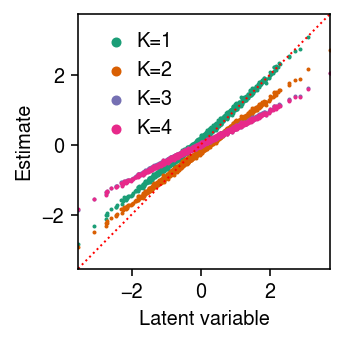
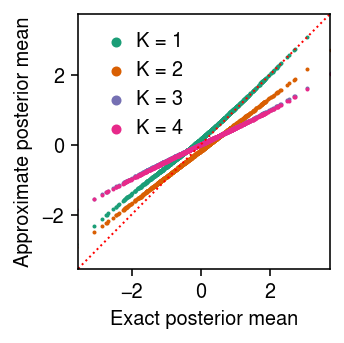
Compare exact and approximate posterior in sanity check

diff --git a/docs/flows.html b/docs/flows.html
@@ -1,7 +1,7 @@
 <!DOCTYPE html>
 <html lang="en">
 <head>
-<!-- 2021-02-03 Wed 12:19 -->
+<!-- 2021-02-03 Wed 12:43 -->
 <meta charset="utf-8">
 <meta name="viewport" content="width=device-width, initial-scale=1">
 <title>Normalizing flows for EBPM</title>
@@ -1088,8 +1088,7 @@ fig.tight_layout()
 </div>
 
 <p>
-Plot the approximate posterior mean against the true values of the latent
-variables.
+Plot the approximate posterior mean against the true posterior mean.
 </p>
 
 <div class="org-src-container">
@@ -1101,14 +1100,14 @@ plt.gcf().set_size_inches(2.5, 2.5)
   <span class="org-keyword">with</span> torch.no_grad():
     <span class="org-variable-name">samples</span> = np.stack([m.qz.forward(torch.tensor(q0.rvs(), dtype=torch.<span class="org-builtin">float</span>))[0].numpy() <span class="org-keyword">for</span> _ <span class="org-keyword">in</span> <span class="org-builtin">range</span>(100)]).squeeze()
     <span class="org-variable-name">muhat</span> = samples.mean(axis=0)
-  plt.scatter(mu, muhat, s=1, c=np.array(cm(k)).reshape(1, -1), label=f<span class="org-string">'K={k+1}'</span>)
+  plt.scatter(q0.mean().ravel(), muhat, s=1, c=np.array(cm(k)).reshape(1, -1), label=f<span class="org-string">'K = {k+1}'</span>)
 <span class="org-variable-name">l</span> = plt.legend(frameon=<span class="org-constant">False</span>, handletextpad=0, markerscale=4)
 <span class="org-variable-name">lim</span> = [mu.<span class="org-builtin">min</span>(), mu.<span class="org-builtin">max</span>()]
 plt.plot(lim, lim, lw=1, ls=<span class="org-string">':'</span>, c=<span class="org-string">'r'</span>)
 plt.xlim(lim)
 plt.ylim(lim)
-plt.xlabel(<span class="org-string">'Latent variable'</span>)
-plt.ylabel(<span class="org-string">'Estimate'</span>)
+plt.xlabel(<span class="org-string">'Exact posterior mean'</span>)
+plt.ylabel(<span class="org-string">'Approximate posterior mean'</span>)
 plt.tight_layout()
 </pre>
 </div>
@@ -1116,6 +1115,34 @@ plt.tight_layout()
 
 <div class="figure">
 <p><img src="figure/flows.org/ebnm-q.png" alt="ebnm-q.png">
+</p>
+</div>
+
+<p>
+Compare samples from the approximate posterior, holding \(K=2\), for the
+largest observation against the true posterior.
+</p>
+
+<div class="org-src-container">
+<pre class="src src-ipython">plt.clf()
+plt.gcf().set_size_inches(2.5, 2.5)
+<span class="org-variable-name">idx</span> = np.argmax(mu)
+<span class="org-variable-name">q0</span> = st.norm(x[idx] / (1 + s ** 2), np.sqrt(1 / (1 + 1 / s ** 2)))
+<span class="org-variable-name">u</span> = q0.rvs(size=(500, 1))
+<span class="org-keyword">with</span> torch.no_grad():
+  <span class="org-variable-name">samples</span> = models[1].qz.forward(torch.tensor(u, dtype=torch.<span class="org-builtin">float</span>))[0].numpy()
+plt.hist(samples, bins=3, density=<span class="org-constant">True</span>, color=<span class="org-string">'0.8'</span>)
+<span class="org-variable-name">grid</span> = np.linspace(2, 4, 1000)
+plt.plot(grid, q0.pdf(grid), lw=2, c=<span class="org-string">'k'</span>)
+plt.xlabel(<span class="org-string">'Latent variable $\mu$'</span>)
+plt.ylabel(<span class="org-string">'Posterior density'</span>)
+plt.tight_layout()
+</pre>
+</div>
+
+
+<div class="figure">
+<p><img src="figure/flows.org/ebnm-q-max.png" alt="ebnm-q-max.png">
 </p>
 </div>
 
@@ -1257,7 +1284,7 @@ torch.manual_seed(run)
 </div>
 <div id="postamble" class="status">
 <p class="author">Author: Abhishek Sarkar</p>
-<p class="date">Created: 2021-02-03 Wed 12:19</p>
+<p class="date">Created: 2021-02-03 Wed 12:43</p>
 <p class="validation"><a href="http://validator.w3.org/check?uri=referer">Validate</a></p>
 </div>
 </body>
